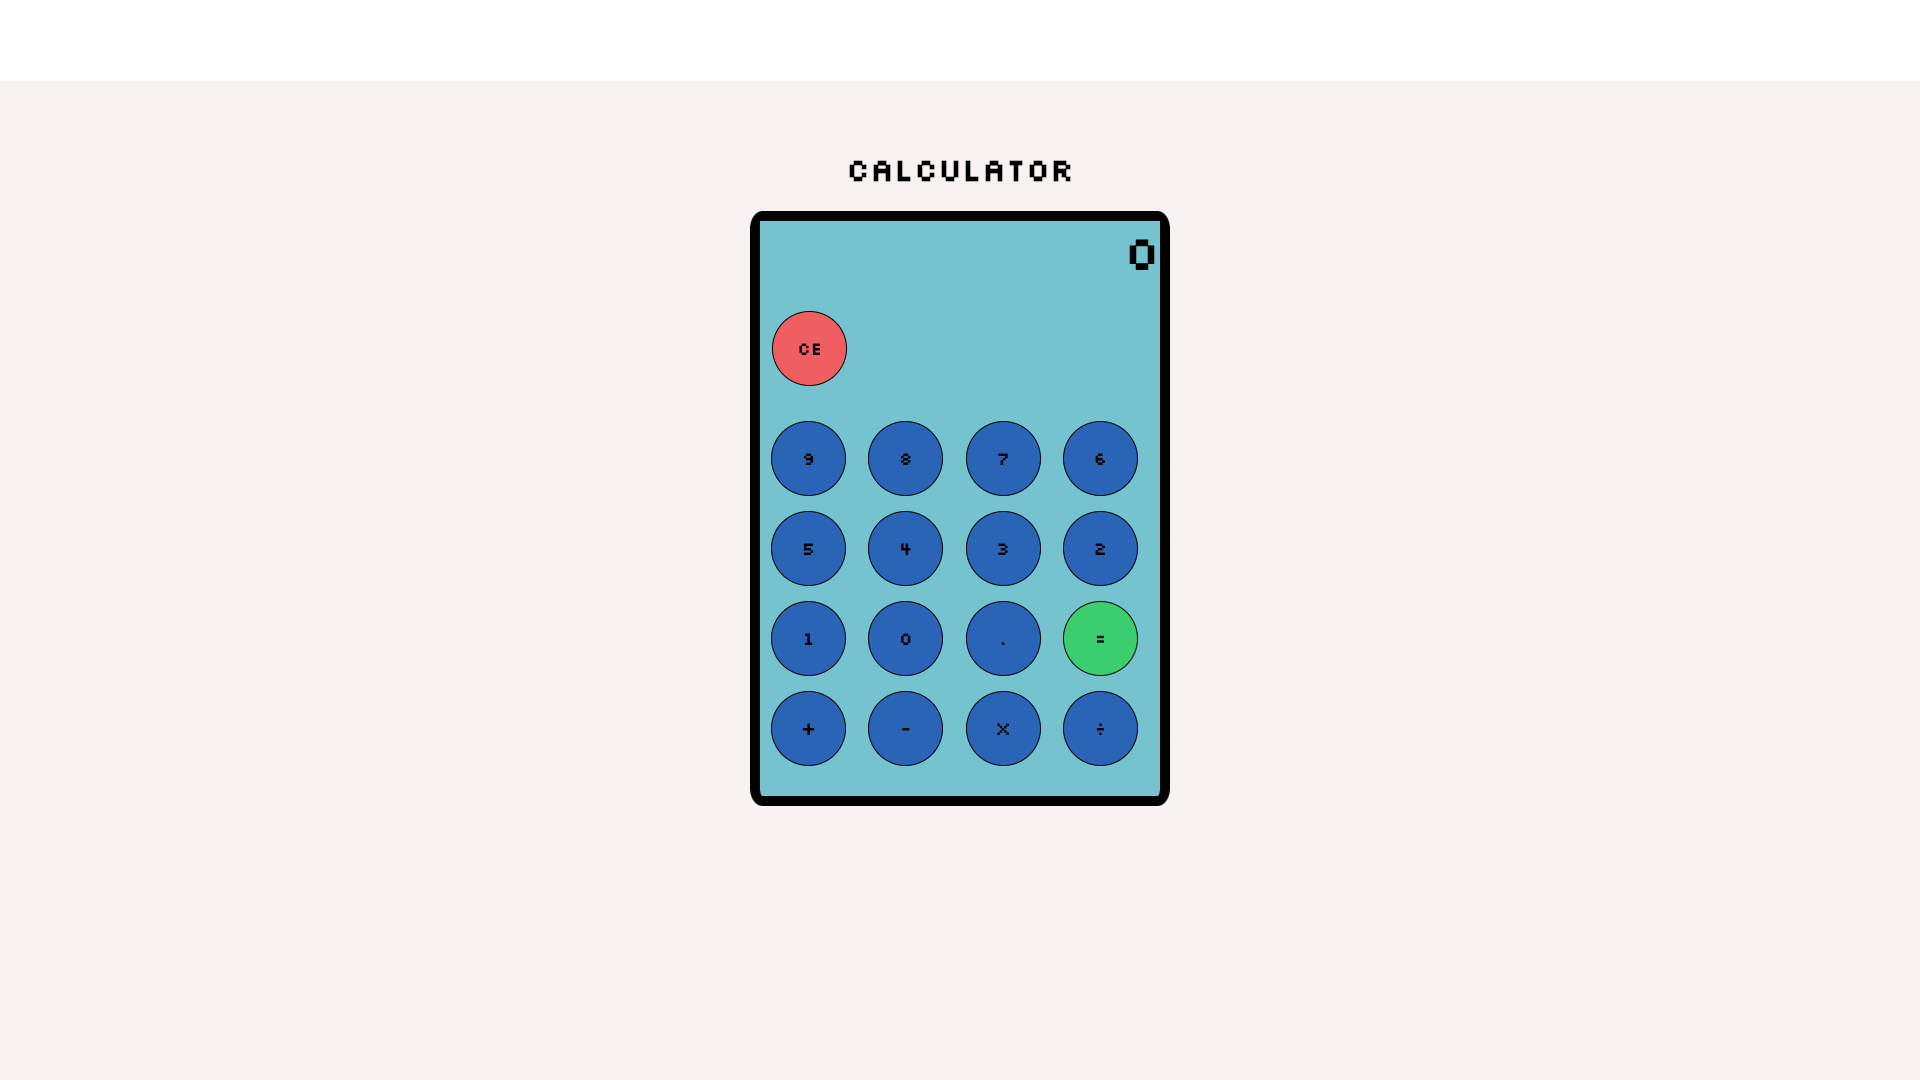
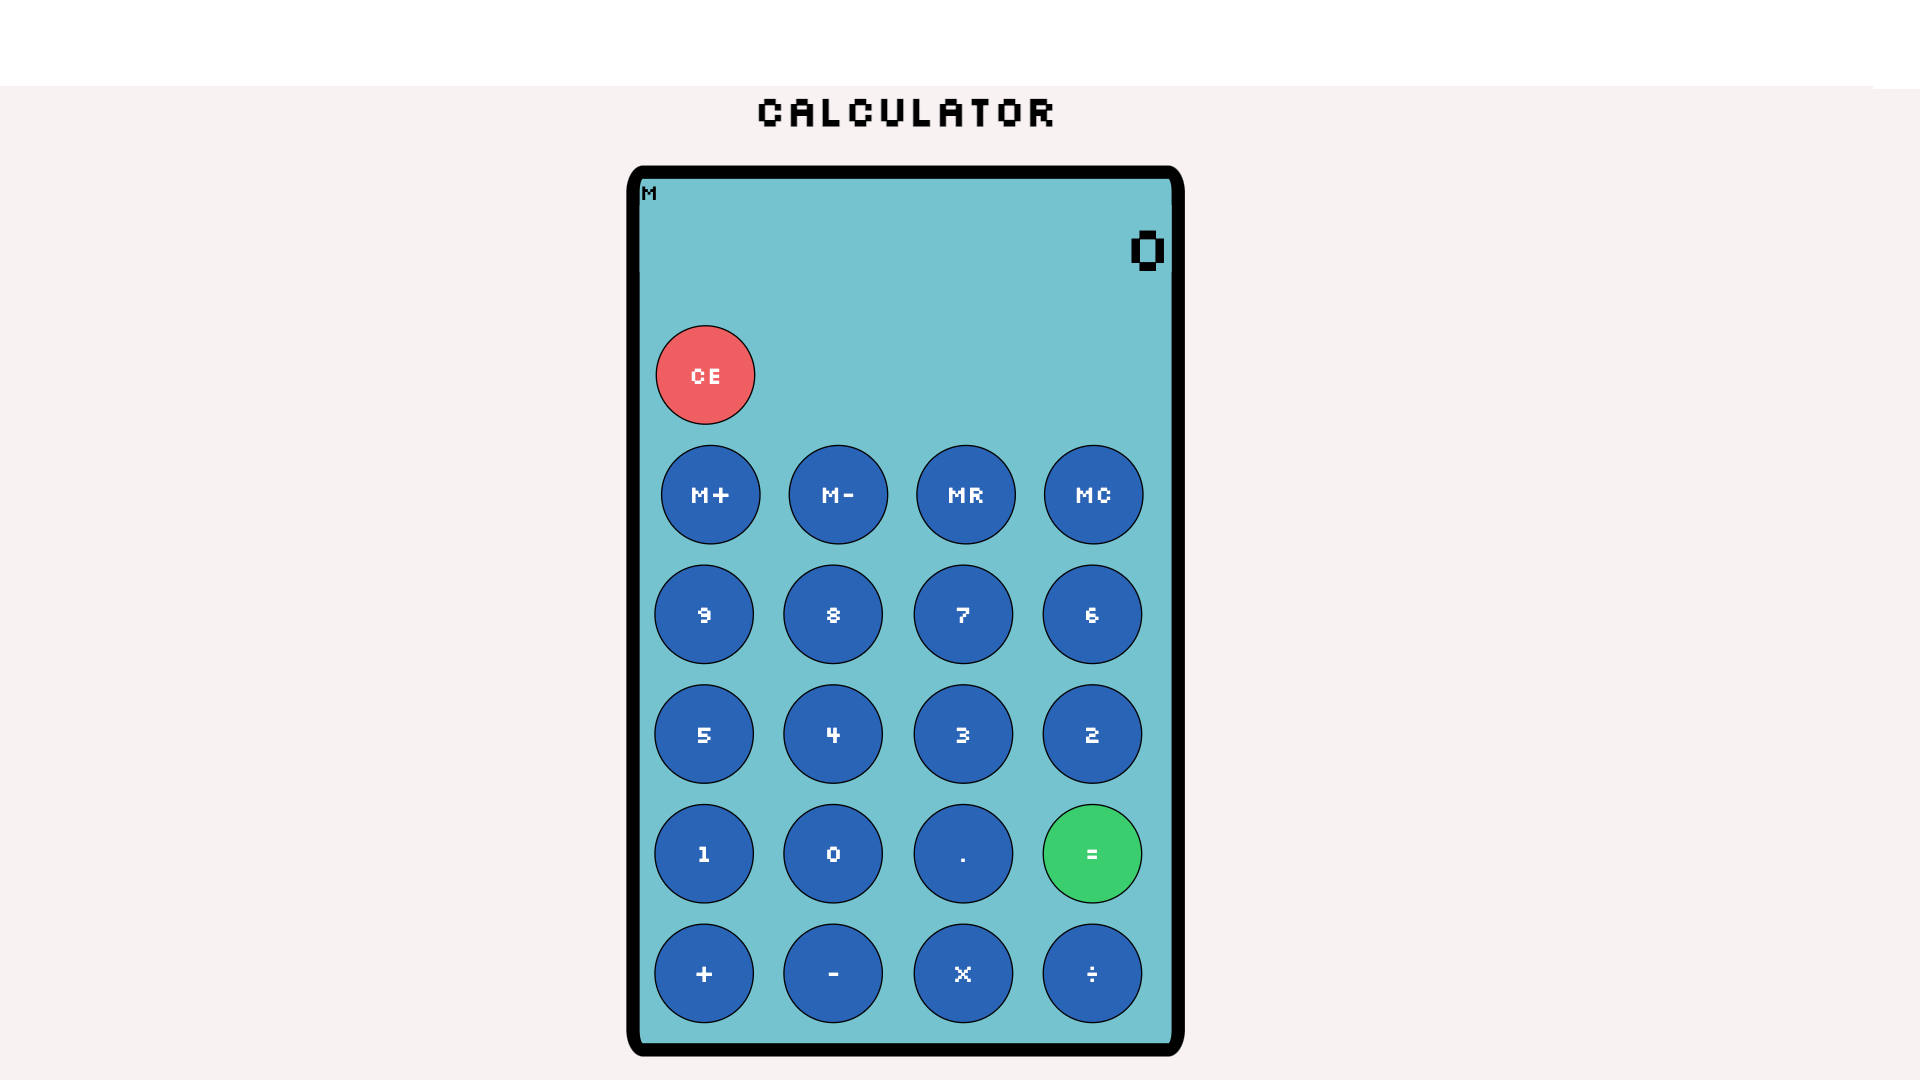
memorybuttons

Changed region(s): [[0.3125, 0.1528, 0.625, 0.9778], [0.375, 0.0917, 0.5625, 0.1222]]

diff --git a/cd.js b/cd.js
@@ -6,41 +6,50 @@ const button = document.getElementById('operators');
 let Operator = document.getElementsByClassName('operator');  
 let clearButton = document.getElementById('clearButton');  
 let equals = document.getElementById('equals'); 
+let memoryRetrive = document.getElementById('memoryRetrive');
+let memoryClear = document.getElementById('memoryClear'); 
 let results = 0;
 let firstOperand = " ";
 let secondOperand = " ";
 let operator = ""; 
 let memoryOne = "";
-let memoryTwo = "";
+let memoryTwo = 0;
+let addMemory = "";
+let finaladdMemory = "";  
+let minusMemory = ""; 
 let newMemory = ""; 
+let newminusMemory = ""; 
+let finalminusMemory = ""; 
+
+
+
 
 Array.from(number).forEach(num => {
     num.addEventListener('click', function (e) {
-        if (operator == "") { 
-            if (display.innerText.length >= 10) return;
+        if (operator == "") {
+          if (display.innerText.length >= 10) return;
             if (firstOperand) {
-                firstOperand += e.target.value            
+                firstOperand += e.target.value
             } else {
-                firstOperand = parseFloat(e.target.value)                
-             }
-            display.innerText = firstOperand   
+                firstOperand = parseFloat(e.target.value)
+            }
+            display.innerText = firstOperand
            
-        } else if (firstOperand && operator) {  
-            if (display.innerText.length >= 10) return;
-            if (secondOperand) {
-                secondOperand += e.target.value   
-            } else {
+           } else if (firstOperand && operator) {
+              if (display.innerText.length >= 10) return;
+                 if (secondOperand) {
+                secondOperand += e.target.value
+                } else {
                 secondOperand = parseFloat(e.target.value)
             }
-            display.innerText = secondOperand 
-            
-        }  
-    })
+            display.innerText = secondOperand
+        }
+    });
 });
+
 
 Array.from(Operator).forEach(opr  => {
     opr.addEventListener('click', function (e) {
-        debugger;
         if (display.innerText.length >= 10) {
             display.innerText = "";
         }
@@ -59,7 +68,7 @@ Array.from(Operator).forEach(opr  => {
                 results = parseFloat(firstOperand) - parseFloat(secondOperand)
                 display.innerText = results
                
-                firstOperand = results 
+                firstOperand = results
                 secondOperand = " "
             } else {
                 display.innerText = firstOperand
@@ -68,7 +77,7 @@ Array.from(Operator).forEach(opr  => {
         if (operator == "*") {
             if (secondOperand) {
                 results = parseFloat(firstOperand) * parseFloat(secondOperand)
-                display.innerText = results 
+                display.innerText = results
                 firstOperand = results
                 secondOperand = " "
             } else {
@@ -79,7 +88,7 @@ Array.from(Operator).forEach(opr  => {
         if (operator == "/") {
             if (secondOperand) {
                 if (parseFloat(firstOperand) % parseFloat(secondOperand) === 0) {
-                    results = parseFloat(firstOperand) / parseFloat(secondOperand) 
+                    results = parseFloat(firstOperand) / parseFloat(secondOperand)
                     display.innerText = results
                
                     firstOperand = results
@@ -89,14 +98,14 @@ Array.from(Operator).forEach(opr  => {
                     display.innerText = results.toFixed(3)
                
                     firstOperand = results.toFixed(3)
-                    secondOperand = " "                  
+                    secondOperand = " "
                 }
             } else {
                 display.innerText = firstOperand
-            }  
+            }
         }
         operator = e.target.value
-    })
+    });
 });
 
  
@@ -105,10 +114,10 @@ decimal.addEventListener("click", function () {
         display.innerText = firstOperand + '.';
     }
      
-})
+});
 equals.addEventListener("click", function () {
-    calculate()   
-})
+    calculate()
+});
 
 
 function calculate() {
@@ -118,8 +127,7 @@ function calculate() {
     if (operator == "+") {
         results = parseFloat(firstOperand) + parseFloat(secondOperand) 
         display.innerText = results
-     
-
+    
       } else if (operator == "-") {
         results = parseFloat(firstOperand) - parseFloat(secondOperand)
         display.innerText = results
@@ -148,52 +156,80 @@ clear.addEventListener("click", function () {
         firstOperand = "";
         operator = "";
         secondOperand = "";
-        
+        memoryfnc.innerText = "M"; 
     }
 });
 
-// things to be done memory function and the decimal point 
-//M+ 
-//M-
-//MR 
-//MC 
+
+
+memoryPlus.addEventListener("click", function addMemo() {
+    memoryOne = display.innerText;
+    debugger; 
+    if (!newMemory) {
+        newMemory = parseFloat(memoryOne) + parseFloat(memoryTwo)
+        memoryOne = newMemory
+        memoryTwo = ""; 
+        memoryfnc.innerText = newMemory
+    } else if(newMemory) {
+        addMemory = parseFloat(newMemory) + parseFloat(memoryOne);
+        newMemory = addMemory
+        memoryOne = ""; 
+        console.log(addMemory);
+        memoryfnc.innerText = addMemory
+    } 
+});
+
+
+
+memoryMinus.addEventListener("click", function subtractMemory() {
+    memoryOne = display.innerText;
+    debugger;
+    // if the button is clicked then this button would subtract the number that was given to it.  
+    // so it would be 0  - memoryOne.
+    // else if the 0 was full then it would subtract from the memoryOne.
+    //  else if now the memory full condition should be also from the add memory or the M- memor which is the minusMemory
+    // if the M- button is clicked then 
+    if (!minusMemory) {
+        minusMemory = parseFloat(memoryTwo) - parseFloat(memoryOne);
+        memoryOne = minusMemory
+        memoryTwo = ""; 
+        memoryfnc.innerText = minusMemory; 
+    } else {   
+        newminusMemory = parseFloat(minusMemory) - parseFloat(memoryOne);
+        minusMemory = newminusMemory
+        memoryOne = "";
+        memoryfnc.innerText = newminusMemory; 
+    } 
+ });
 
 
 
 
-function addMemory() {
-     //if(addMemory)
-};
-
-
-
-function memoryMinus() {
+memoryRetrive.addEventListener("click", function show() {
+    memoryfnc.innerText = minusMemory; 
+    if (newMemory && addMemory) {
+        memoryfnc.innerText = newMemory
+        memoryfnc.innerText = addMemory
+    } else {
+        memoryfnc.innerText = minusMemory;
+        memoryfnc.innerText = newminusMemory;
+    }
     
-};
-
-function memoryRecall() {
-    
-};
+ });
 
 
-function memoryClear() {
-    
-};
+memoryClear.addEventListener("click", function clear() {
+        addMemory.innerText = ""; 
+        minusMemory.innerText = ""; 
+        memoryfnc.innerText = "M"; 
+ });
 
 
 
 
 
 
-
-
-
-
-
-
-
-
-
+ 
 
 
 

diff --git a/calculator.css b/calculator.css
@@ -10,7 +10,7 @@ h1{
 #main{
     display:flex; 
     border: 10px solid rgb(0, 0, 0);
-    height: 575px;
+    height: 650px;
     width: 400px; 
     margin: auto; 
     border-radius: 3%;
@@ -24,6 +24,7 @@ h1{
    text-align: right;
    font-size: 3rem;
    border: rgb(255, 255, 255);
+   overflow: hidden;
 }
 
 #clear{
@@ -36,6 +37,13 @@ h1{
     background-color: rgb(66, 246, 255);
 }
 
+#higher-row{
+    display: flex;
+   flex-direction: row;
+   justify-content: space-evenly;
+   margin-top: 15px;
+   margin-left:5px; 
+}
 
 #top-row{
   display: flex;
@@ -76,6 +84,7 @@ button{
     border: 1px solid rgb(0, 0, 0);   
     background-color: rgb(54, 100, 186);
     font-family: 'Silkscreen', cursive;
+    color:white;
 }
 
 button:hover{

diff --git a/index.html b/index.html
@@ -13,11 +13,21 @@
     <h1>Calculator</h1>
     <div id="main">
         <div id="calculator">
-            <div id="display">0</div>
+        <div id="memoryfnc">M</div>
+        <div id="display">0</div>
          <br><br>
          <div class="button">
             <button  id="clear">CE</button>
+        <div id="higher-row">
+        <button id="memoryPlus" >M+</button>
         <br><br>
+        <button id="memoryMinus" >M-</button>
+        <br><br>
+        <button id="memoryRetrive" >MR</button>
+        <br><br>
+        <button id="memoryClear" >MC</button>
+        <br><br>
+        </div>
         <div id="top-row">
         <button class="number" value='9' id="nine">9</button> 
         <br><br>

diff --git a/readme.md b/readme.md
@@ -9,10 +9,8 @@
 [Calculator](https://ris345.github.io/calculator-app.github.io/)
 
 
-
-
 ## Summary
-This is a calculator app made with Vanilla JS. It was a challenging project because I had to change my thinking and change my approach to a systematic way. But I loved every moment of it. 
+ Calculator app made with Vanilla JS,HTML and CSS.Calculator is always useful tool to have. It  was a challenging project for me, as I worked through this project I developed a deeper understanding of logic in programming. I can say that I have started to think as a programmer and am ready to build more projects! 
 
 ## Author
 
